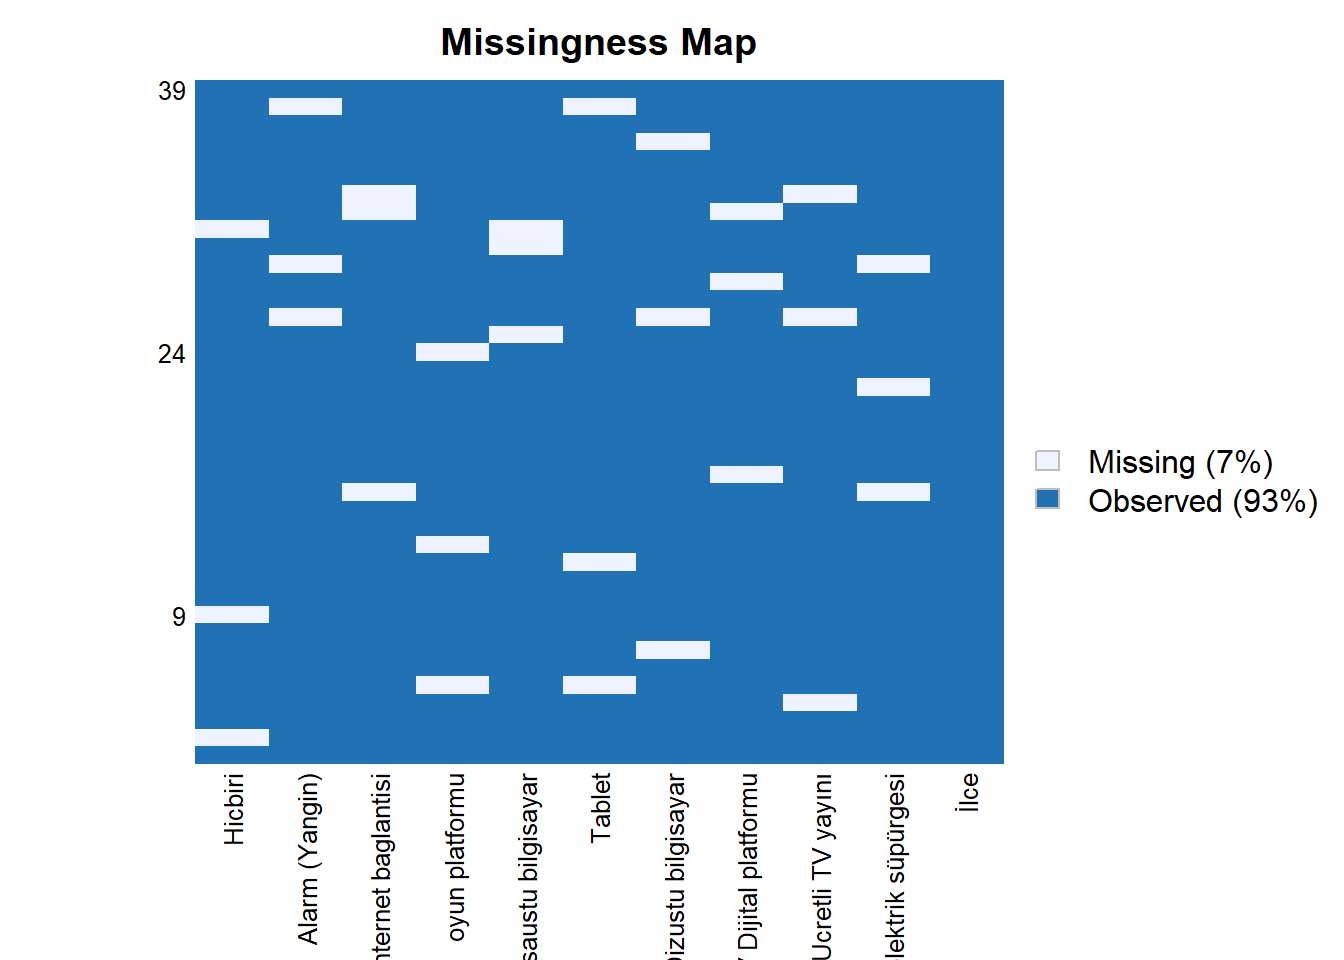
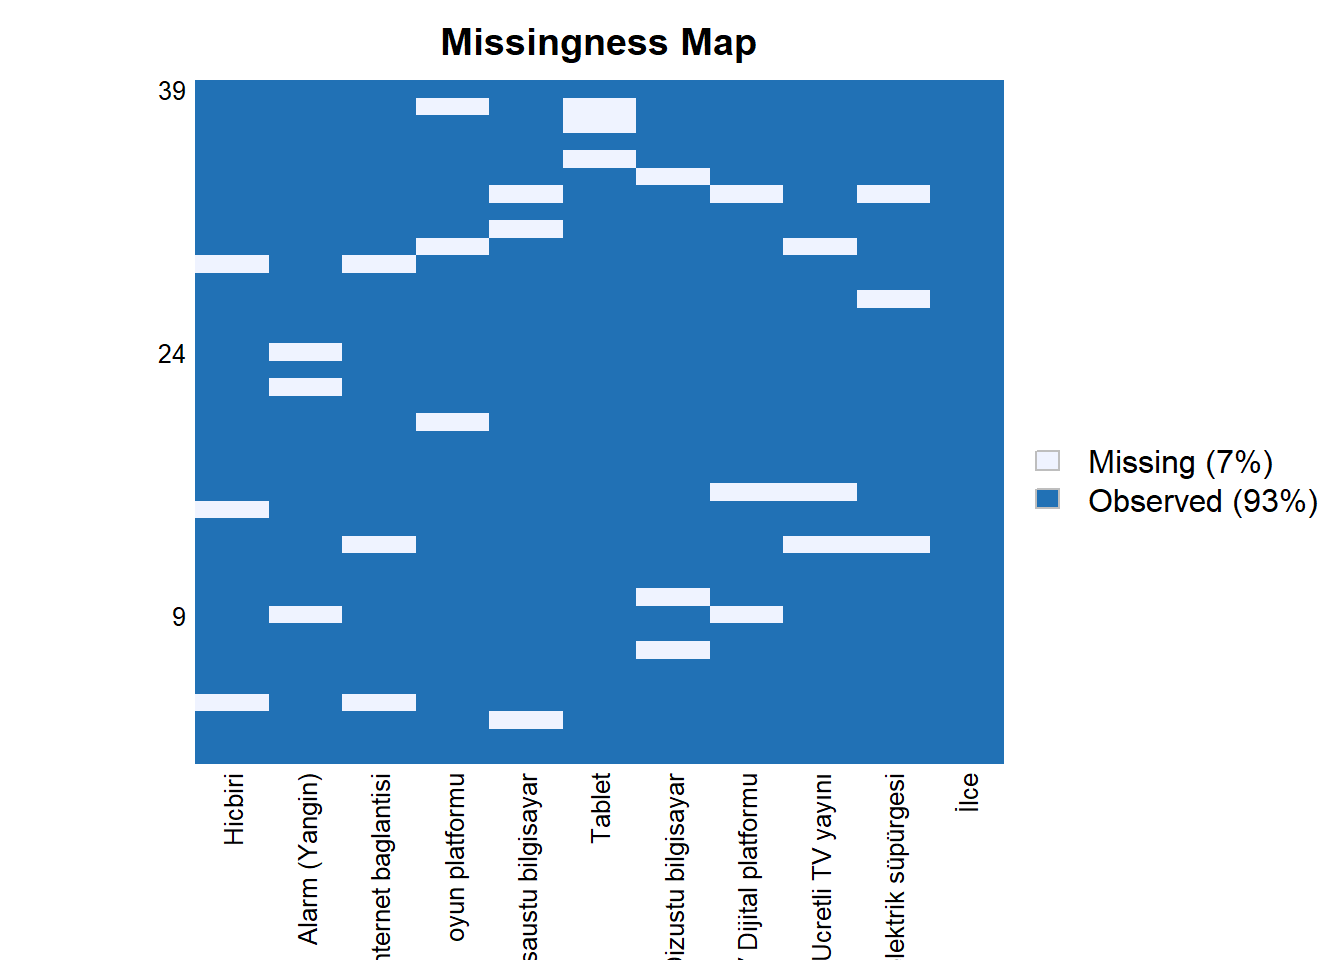
R final proje

diff --git a/R final proje.html b/R final proje.html
@@ -113,6 +113,9 @@ pre > code.sourceCode > span > a:first-child::before { text-decoration: underlin
 <span id="cb2-2"><a href="#cb2-2" aria-hidden="true" tabindex="-1"></a>veri <span class="ot">&lt;-</span> <span class="fu">read_excel</span>(<span class="st">"14-vdym-ilce-baznda-hanelerdeki-teknolojik-arac-saylar.xlsx"</span>)</span>
 <span id="cb2-3"><a href="#cb2-3" aria-hidden="true" tabindex="-1"></a><span class="fu">View</span>(veri)</span></code><button title="Copy to Clipboard" class="code-copy-button"><i class="bi"></i></button></pre></div>
 </div>
+</section>
+<section id="veri-analizi" class="level1">
+<h1><em>Veri Analizi</em></h1>
 <p><strong>dim fonksiyonu ile 39 satır ve 11 sütün olduğu görülüyor.</strong></p>
 <div class="cell">
 <div class="sourceCode cell-code" id="cb3"><pre class="sourceCode r code-with-copy"><code class="sourceCode r"><span id="cb3-1"><a href="#cb3-1" aria-hidden="true" tabindex="-1"></a><span class="fu">dim</span>(veri)</span></code><button title="Copy to Clipboard" class="code-copy-button"><i class="bi"></i></button></pre></div>
@@ -147,7 +150,7 @@ pre > code.sourceCode > span > a:first-child::before { text-decoration: underlin
  Max.   :321.00   Max.   :1880.0      Max.   :442.0   Max.   :1477.0  </code></pre>
 </div>
 </div>
-<p><strong>lm() fonksiyonu ile masaüstü bilgisayari ile dizüstü bilgisayarın arasında ki doğrusal regresyon analizi yaptım ve sonuçlarına göre: Dizustu bilgisayar ile Masaustu bilgisayar arasında bir doğrusal ilişki bulunmaktadır.</strong></p>
+<p><strong>Doğrusal regresyon analizi yapmak için lm() fonksiyonunu kullandım ve elde ettiğim sonuçlara göre dizüstü bilgisayarlar ile masaüstü bilgisayarlar arasında doğrusal bir ilişkinin olduğunu söylenebilir.</strong></p>
 <div class="cell">
 <div class="sourceCode cell-code" id="cb7"><pre class="sourceCode r code-with-copy"><code class="sourceCode r"><span id="cb7-1"><a href="#cb7-1" aria-hidden="true" tabindex="-1"></a><span class="fu">lm</span>(<span class="st">`</span><span class="at">Masaustu bilgisayar</span><span class="st">`</span> <span class="sc">~</span> <span class="st">`</span><span class="at">Dizustu bilgisayar</span><span class="st">`</span> , <span class="at">data =</span> veri) </span></code><button title="Copy to Clipboard" class="code-copy-button"><i class="bi"></i></button></pre></div>
 <div class="cell-output cell-output-stdout">
@@ -160,7 +163,7 @@ Coefficients:
              68.1797                0.2901  </code></pre>
 </div>
 </div>
-<p><strong>summary(lm) fonksiyonu ile Dizüstü bilgisaray ile Masaüstü bilgisarayını anlamlılığını F testi ile test edip “anlamlı olduğu söylenebilir” sonucuna vardım.</strong></p>
+<p><strong>Summary(lm) fonksiyonunu kullanarak dizüstü ve masaüstü bilgisayarlar arasındaki ilişkinin anlamlılığını F testi ile değerlendirdim ve bu ilişkinin anlamlı olduğu sonucuna ulaştım.</strong></p>
 <div class="cell">
 <div class="sourceCode cell-code" id="cb9"><pre class="sourceCode r code-with-copy"><code class="sourceCode r"><span id="cb9-1"><a href="#cb9-1" aria-hidden="true" tabindex="-1"></a><span class="fu">summary</span>(<span class="fu">lm</span>(<span class="st">`</span><span class="at">Dizustu bilgisayar</span><span class="st">`</span> <span class="sc">~</span> <span class="st">`</span><span class="at">Masaustu bilgisayar</span><span class="st">`</span> , <span class="at">data =</span> veri))</span></code><button title="Copy to Clipboard" class="code-copy-button"><i class="bi"></i></button></pre></div>
 <div class="cell-output cell-output-stdout">
@@ -184,7 +187,7 @@ Multiple R-squared:  0.4454,    Adjusted R-squared:  0.4304
 F-statistic: 29.71 on 1 and 37 DF,  p-value: 3.478e-06</code></pre>
 </div>
 </div>
-<p><strong>Veri setimizdeki dizüstü bilgisayar ve masaüstü bilgisayar arasında güçlü bir pozitif korelasyon vardır (r=0.6673753).</strong></p>
+<p><strong>Veri setindeki dizüstü bilgisayarlar ile masaüstü bilgisayarlar arasındaki korelasyonu incelediğimde, (0.6673753) değerinde güçlü bir pozitif korelasyon olduğu görülüyor.</strong></p>
 <div class="cell">
 <div class="sourceCode cell-code" id="cb11"><pre class="sourceCode r code-with-copy"><code class="sourceCode r"><span id="cb11-1"><a href="#cb11-1" aria-hidden="true" tabindex="-1"></a><span class="fu">cor</span>(veri<span class="sc">$</span><span class="st">`</span><span class="at">Dizustu bilgisayar</span><span class="st">`</span>, veri<span class="sc">$</span><span class="st">`</span><span class="at">Masaustu bilgisayar</span><span class="st">`</span>)</span></code><button title="Copy to Clipboard" class="code-copy-button"><i class="bi"></i></button></pre></div>
 <div class="cell-output cell-output-stdout">
@@ -207,7 +210,7 @@ F-statistic: 29.71 on 1 and 37 DF,  p-value: 3.478e-06</code></pre>
 <pre><code>[1] FALSE</code></pre>
 </div>
 </div>
-<p><strong>Amelia ,naniar ve VIM paketleri ile birlikte missmap ,vis_miss ve matrixplot</strong> <strong>fonksiyonlari kullanılarak, veri setinde herhangi bir boş gözlemin olmadığını net bir şekilde görebiliyoruz.</strong></p>
+<p><strong>Amelia ,naniar ve VIM paketleri ile birlikte missmap ,vis_miss ve matrixplot</strong> <strong>fonksiyonlari kullanılarak, veri setinde herhangi bir boş gözlemin olmadığını net bir şekilde görülebilir.</strong></p>
 <div class="cell">
 <div class="sourceCode cell-code" id="cb16"><pre class="sourceCode r code-with-copy"><code class="sourceCode r"><span id="cb16-1"><a href="#cb16-1" aria-hidden="true" tabindex="-1"></a><span class="co">#library(Amelia)</span></span>
 <span id="cb16-2"><a href="#cb16-2" aria-hidden="true" tabindex="-1"></a>Amelia<span class="sc">::</span><span class="fu">missmap</span>(veri)</span></code><button title="Copy to Clipboard" class="code-copy-button"><i class="bi"></i></button></pre></div>
@@ -236,6 +239,9 @@ Unknown or uninitialised column: `arguments`.</code></pre>
 <p><img src="R-final-proje_files/figure-html/unnamed-chunk-12-1.png" class="img-fluid" width="672"></p>
 </div>
 </div>
+</section>
+<section id="rastgele-boş-gözlem-atama" class="level1">
+<h1><em>Rastgele boş gözlem atama</em></h1>
 <p><strong>veride setinin her sütununa (ilk sütün hariç) verinin yüzde 10 nuna (ilk sütün olmadığı için yüzde 7 sine)denk gelecek şeklide rastgele veriler silindi.</strong></p>
 <div class="cell">
 <div class="sourceCode cell-code" id="cb21"><pre class="sourceCode r code-with-copy"><code class="sourceCode r"><span id="cb21-1"><a href="#cb21-1" aria-hidden="true" tabindex="-1"></a>yuzde <span class="ot">&lt;-</span> <span class="fl">0.10</span></span>
@@ -308,7 +314,10 @@ Unknown or uninitialised column: `arguments`.</code></pre>
                        3                        3 </code></pre>
 </div>
 </div>
-<p><strong>Ortalama ile NA değelerini doldurma yöntemi ile NA değerleri doldurulmuştur.</strong></p>
+</section>
+<section id="boş-gözlem-doldurma" class="level1">
+<h1><em>Boş gözlem doldurma</em></h1>
+<p><strong>Boş gözlemleri “Ortalama ile doldurma” yöntemi kullanarak doldurulmuştur.</strong></p>
 <div class="cell">
 <div class="sourceCode cell-code" id="cb33"><pre class="sourceCode r code-with-copy"><code class="sourceCode r"><span id="cb33-1"><a href="#cb33-1" aria-hidden="true" tabindex="-1"></a><span class="co">#library(dplyr) paketi kullanılmıştır</span></span>
 <span id="cb33-2"><a href="#cb33-2" aria-hidden="true" tabindex="-1"></a><span class="cf">for</span>(col <span class="cf">in</span> <span class="fu">names</span>(veri)) {</span>
